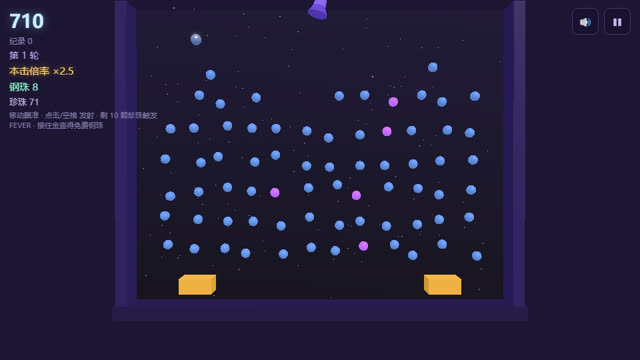
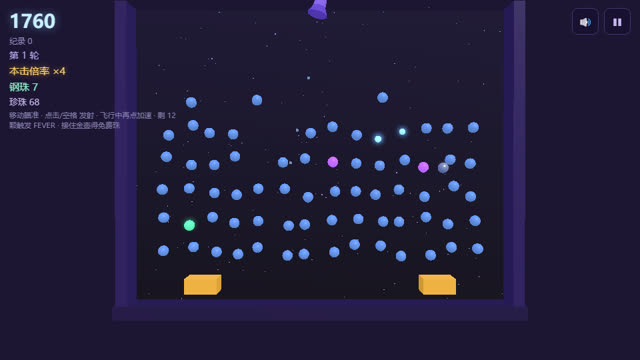
fix: 修复三条实机试玩反馈——①【关键】9款游戏真实主循环漏调 handleKeys()（键盘输入只进 pressed 集合从未被消费，仅调试钩子可用→玩家键盘全死，星窟狂奔最为致命）；统一在 tick 中每帧消费；新增 verify-input.mjs 用 Playwright 真键盘/鼠标逐款断言'输入必须产生可见状态变化'9/9 过②珠光瀑语手感：飞行中可继续瞄准(下一发预览)+点击加速×3+珍珠更密更大(14/行,半径.56)+FEVER 阈值10→12，解决'发射后无事可做/打不中'③光路迷阵引导：HUD 水晶进度计数、未点亮目标标注所需颜色字母、错色吸收红圈抖动提示、标题说明重

diff --git a/packages/app/public/games/pearl-pop-cascade/js/game.js b/packages/app/public/games/pearl-pop-cascade/js/game.js
@@ -9,9 +9,9 @@ import { makeUI } from './ui.js';
 import * as THREE from '../vendor/three.module.min.js';
 
 // ==================== physics constants ====================
-const GRAV = -26, REST = .8, WALL_REST = .75, BALL_R = .55, PEG_R = .5;
+const GRAV = -26, REST = .8, WALL_REST = .75, BALL_R = .55, PEG_R = .56;
 const MAXV = 42, SUBSTEPS = 3;
-const START_BALLS = 8, FEVER_AT = 10, FEVER_BALLS = 3;
+const START_BALLS = 8, FEVER_AT = 12, FEVER_BALLS = 3;
 const BUCKET_W = 3.4;
 
 // ==================== state ====================
@@ -19,7 +19,7 @@ let mode = 'title', paused = false, noAuto = false;
 let score = 0, bestScore = 0, bestRound = 0, round = 1;
 let balls = START_BALLS, freeBalls = 0, mult = 1, shotHits = 0, purpleHit = false;
 let feverArmed = false, feverActive = false, clearBonus = 0;
-let aimAngle = 0;                          // 0 = straight down; ±1.3 rad max
+let aimAngle = 0, fastBall = false;        // click during flight = fast-forward
 let ball = null;                           // {x,y,vx,vy}
 let playT = 0, time = 0, lastReportT = 0;
 const pegs = [], buckets = [], trailDots = [];
@@ -91,9 +91,9 @@ function layoutPegs(seedRng, count) {
   let placed = 0;
   for (let r = 0; r < rows && placed < count; r++) {
     const y = 5.5 + (r / Math.max(1, rows - 1)) * 19;
-    const n = Math.min(12, count - placed);
+    const n = Math.min(14, count - placed);
     for (let i = 0; i < n; i++) {
-      const x = -BW / 2 + 2.4 + (BW - 4.8) * ((i + .5) / n) + (seedRng() - .5) * 1.2;
+      const x = -BW / 2 + 2.4 + (BW - 4.8) * ((i + .5) / n) + (seedRng() - .5) * .9;
       const yy = y + (seedRng() - .5) * 1.4;
       if (yy > BH - 2.5 && Math.abs(x) < 3.4) continue;      // keep launcher column clear
       const kind = seedRng() < .03 ? 'purple' : seedRng() < .015 ? 'green' : 'blue';
@@ -327,7 +327,7 @@ function updateBuckets(dt) {
 
 // trajectory preview: simulate 46 steps
 function updatePreview() {
-  if (ball || mode !== 'play') { trailMeshes.forEach(m => m.visible = false); return; }
+  if (mode !== 'play') { trailMeshes.forEach(m => m.visible = false); return; }
   let x = 0, y = BH - 1.4, vx = Math.sin(aimAngle) * 30, vy = -Math.cos(aimAngle) * 30;
   let dot = 0;
   const h = 1 / 45;
@@ -356,6 +356,8 @@ function update(dt) {
   updateBuckets(dt);
   if (ball) {
     stepBall(dt);
+    if (fastBall && ball) { stepBall(dt); stepBall(dt); }   // click-to-fast-forward ×3
+    if (!ball) fastBall = false;
     if (ball) {                              // ball may have been consumed inside stepBall
       ballMesh.position.set(ball.x, ball.y, .55);
       ballMesh.visible = true;
@@ -387,6 +389,7 @@ function tick(now) {
   requestAnimationFrame(tick);
   let dt = (now - last) / 1000; last = now;
   if (document.hidden) return;
+  handleKeys();   // consume pressed keys in the REAL loop too (was debug-only — keyboard was dead for players)
   dt = Math.min(dt, 1 / 30);
   if (mode === 'play' && !paused) {
     acc += dt;
@@ -417,7 +420,10 @@ function setAimFromScreen(sx, sy) {
 addEventListener('pointermove', (e) => { if (mode === 'play' && !paused && e.pointerType !== 'touch') setAimFromScreen(e.clientX); });
 addEventListener('pointerdown', (e) => {
   audio.ensure();
-  if (mode === 'play' && !paused && e.pointerType === 'touch') setAimFromScreen(e.clientX);
+  if (mode === 'play' && !paused) {
+    setAimFromScreen(e.clientX);
+    if (ball) fastBall = true;              // click during flight = speed up
+  }
 });
 addEventListener('pointerup', (e) => {
   if (mode === 'play' && !paused) {
@@ -562,7 +568,7 @@ async function autotest() {
 
     // -- T16: bucket catch (deterministic: pegs pushed aside, frozen bucket at center)
     startGame();
-    G.killPegs(11);                            // 11 left: above FEVER_AT, no clear
+    G.killPegs(13);                            // 13 left: above FEVER_AT, no clear
     G.pushPegsAside();                         // clear the drop lane
     G.bucketAt(0, 0);
     buckets[0].dir = 0;

diff --git a/packages/games/pearl-pop-cascade/js/game.js b/packages/games/pearl-pop-cascade/js/game.js
@@ -9,9 +9,9 @@ import { makeUI } from './ui.js';
 import * as THREE from '../vendor/three.module.min.js';
 
 // ==================== physics constants ====================
-const GRAV = -26, REST = .8, WALL_REST = .75, BALL_R = .55, PEG_R = .5;
+const GRAV = -26, REST = .8, WALL_REST = .75, BALL_R = .55, PEG_R = .56;
 const MAXV = 42, SUBSTEPS = 3;
-const START_BALLS = 8, FEVER_AT = 10, FEVER_BALLS = 3;
+const START_BALLS = 8, FEVER_AT = 12, FEVER_BALLS = 3;
 const BUCKET_W = 3.4;
 
 // ==================== state ====================
@@ -19,7 +19,7 @@ let mode = 'title', paused = false, noAuto = false;
 let score = 0, bestScore = 0, bestRound = 0, round = 1;
 let balls = START_BALLS, freeBalls = 0, mult = 1, shotHits = 0, purpleHit = false;
 let feverArmed = false, feverActive = false, clearBonus = 0;
-let aimAngle = 0;                          // 0 = straight down; ±1.3 rad max
+let aimAngle = 0, fastBall = false;        // click during flight = fast-forward
 let ball = null;                           // {x,y,vx,vy}
 let playT = 0, time = 0, lastReportT = 0;
 const pegs = [], buckets = [], trailDots = [];
@@ -91,9 +91,9 @@ function layoutPegs(seedRng, count) {
   let placed = 0;
   for (let r = 0; r < rows && placed < count; r++) {
     const y = 5.5 + (r / Math.max(1, rows - 1)) * 19;
-    const n = Math.min(12, count - placed);
+    const n = Math.min(14, count - placed);
     for (let i = 0; i < n; i++) {
-      const x = -BW / 2 + 2.4 + (BW - 4.8) * ((i + .5) / n) + (seedRng() - .5) * 1.2;
+      const x = -BW / 2 + 2.4 + (BW - 4.8) * ((i + .5) / n) + (seedRng() - .5) * .9;
       const yy = y + (seedRng() - .5) * 1.4;
       if (yy > BH - 2.5 && Math.abs(x) < 3.4) continue;      // keep launcher column clear
       const kind = seedRng() < .03 ? 'purple' : seedRng() < .015 ? 'green' : 'blue';
@@ -327,7 +327,7 @@ function updateBuckets(dt) {
 
 // trajectory preview: simulate 46 steps
 function updatePreview() {
-  if (ball || mode !== 'play') { trailMeshes.forEach(m => m.visible = false); return; }
+  if (mode !== 'play') { trailMeshes.forEach(m => m.visible = false); return; }
   let x = 0, y = BH - 1.4, vx = Math.sin(aimAngle) * 30, vy = -Math.cos(aimAngle) * 30;
   let dot = 0;
   const h = 1 / 45;
@@ -356,6 +356,8 @@ function update(dt) {
   updateBuckets(dt);
   if (ball) {
     stepBall(dt);
+    if (fastBall && ball) { stepBall(dt); stepBall(dt); }   // click-to-fast-forward ×3
+    if (!ball) fastBall = false;
     if (ball) {                              // ball may have been consumed inside stepBall
       ballMesh.position.set(ball.x, ball.y, .55);
       ballMesh.visible = true;
@@ -387,6 +389,7 @@ function tick(now) {
   requestAnimationFrame(tick);
   let dt = (now - last) / 1000; last = now;
   if (document.hidden) return;
+  handleKeys();   // consume pressed keys in the REAL loop too (was debug-only — keyboard was dead for players)
   dt = Math.min(dt, 1 / 30);
   if (mode === 'play' && !paused) {
     acc += dt;
@@ -417,7 +420,10 @@ function setAimFromScreen(sx, sy) {
 addEventListener('pointermove', (e) => { if (mode === 'play' && !paused && e.pointerType !== 'touch') setAimFromScreen(e.clientX); });
 addEventListener('pointerdown', (e) => {
   audio.ensure();
-  if (mode === 'play' && !paused && e.pointerType === 'touch') setAimFromScreen(e.clientX);
+  if (mode === 'play' && !paused) {
+    setAimFromScreen(e.clientX);
+    if (ball) fastBall = true;              // click during flight = speed up
+  }
 });
 addEventListener('pointerup', (e) => {
   if (mode === 'play' && !paused) {
@@ -562,7 +568,7 @@ async function autotest() {
 
     // -- T16: bucket catch (deterministic: pegs pushed aside, frozen bucket at center)
     startGame();
-    G.killPegs(11);                            // 11 left: above FEVER_AT, no clear
+    G.killPegs(13);                            // 13 left: above FEVER_AT, no clear
     G.pushPegsAside();                         // clear the drop lane
     G.bucketAt(0, 0);
     buckets[0].dir = 0;

diff --git a/packages/games/orchard-fusion/js/game.js b/packages/games/orchard-fusion/js/game.js
@@ -152,7 +152,8 @@ function doSwap() {
 function spawnBody(tier, x, y, vx = 0, vy = 0) {
   const f = FRUITS[tier];
   const b = {
-    tier, x: Math.max(JAR.left + f.r, Math.min(JAR.right - f.r, x)), y,
+    tier, x: Math.max(JAR.left + f.r, Math.min(JAR.right - f.r, x)),
+    y: Math.min(y, JAR.floor - f.r),      // merged fruit is bigger than parents: keep above floor
     vx, vy, r: f.r, rot: 0, hit: false, dead: false, born: 0,
   };
   bodies.push(b);
@@ -362,6 +363,7 @@ function tick(now) {
   requestAnimationFrame(tick);
   let dt = (now - last) / 1000; last = now;
   if (document.hidden) return;
+  handleKeys();   // consume pressed keys in the REAL loop too (was debug-only — keyboard was dead for players)
   dt = Math.min(dt, 1 / 30);
   if (mode === 'play' && !paused) {
     acc += dt;
@@ -609,7 +611,7 @@ async function autotest() {
   assert(32, !nan2 && G.err.length === errBefore, '整局快进 240 投无 NaN 无新报错');
   if (S().mode === 'play') for (let i = 0; i < 30; i++) { G.spawnTier(7 + (i % 3), 110 + Math.random() * 320, 150 + Math.random() * 300); G.upd(5); }
   G.setNoAuto(false);
-  for (let i = 0; i < 400 && S().mode === 'play'; i++) G.upd(1);
+  for (let i = 0; i < 900 && S().mode === 'play'; i++) G.upd(1);
   assert(33, S().mode === 'over', '堆满后自然判负到结算');
 
   // -- T34: back to title screen

diff --git a/packages/app/public/games/prism-paths/index.html b/packages/app/public/games/prism-paths/index.html
@@ -93,10 +93,10 @@
   <h1>光路迷阵</h1>
   <h2>PRISM PATHS · 激光折射解谜</h2>
   <div class="howto">
-    旋转镜面与棱镜，把激光引导到同色水晶上<br>
+    旋转镜面与棱镜，把激光引导到<b>同色</b>水晶上——须点亮全部水晶才算过关<br>
+    水晶上标着它要的颜色；错色光会被吸收（红圈提示）<br>
     棱镜分光一路为二 · 滤色镜只放行同色 · 冰镜折射一次即消融<br>
-    步数不超过 par 拿三星，集星解锁后续章节<br>
-    30 关三章，全部点亮征服光路！
+    步数不超过 par 拿三星，集星解锁后续章节，30 关三章征服光路！
   </div>
   <div id="titlebest"></div>
   <div class="btns"><button id="startbtn">开始解谜</button><button id="contbtn" class="ghost">继续上次</button></div>

diff --git a/packages/games/prism-paths/index.html b/packages/games/prism-paths/index.html
@@ -93,10 +93,10 @@
   <h1>光路迷阵</h1>
   <h2>PRISM PATHS · 激光折射解谜</h2>
   <div class="howto">
-    旋转镜面与棱镜，把激光引导到同色水晶上<br>
+    旋转镜面与棱镜，把激光引导到<b>同色</b>水晶上——须点亮全部水晶才算过关<br>
+    水晶上标着它要的颜色；错色光会被吸收（红圈提示）<br>
     棱镜分光一路为二 · 滤色镜只放行同色 · 冰镜折射一次即消融<br>
-    步数不超过 par 拿三星，集星解锁后续章节<br>
-    30 关三章，全部点亮征服光路！
+    步数不超过 par 拿三星，集星解锁后续章节，30 关三章征服光路！
   </div>
   <div id="titlebest"></div>
   <div class="btns"><button id="startbtn">开始解谜</button><button id="contbtn" class="ghost">继续上次</button></div>

diff --git a/packages/app/public/games/prism-paths/js/ui.js b/packages/app/public/games/prism-paths/js/ui.js
@@ -39,7 +39,7 @@ export function makeUI({ onStart, onContinue, onSelect, onBack, onPick, onUndo, 
     el.titlebest.textContent = total > 0 ? `已收集 ${total} / 90 星` : '还没有纪录，来点亮第一颗水晶吧';
     el.selbest.textContent = total > 0 ? `当前总星数 ${total} / 90` : '从第一章开始你的光路之旅';
   }
-  function setMoves(m, par) { el.moves.textContent = `步数 ${m} / par ${par}`; }
+  function setMoves(m, par, lit = 0, total = 0) { el.moves.textContent = `步数 ${m} / par ${par} · 水晶 ${lit}/${total}`; }
   function renderSelect(LEVELS, stars, gates, current) {
     el.chaplist.innerHTML = '';
     const total = stars.reduce((a, b) => a + b, 0);

diff --git a/packages/games/prism-paths/js/ui.js b/packages/games/prism-paths/js/ui.js
@@ -39,7 +39,7 @@ export function makeUI({ onStart, onContinue, onSelect, onBack, onPick, onUndo, 
     el.titlebest.textContent = total > 0 ? `已收集 ${total} / 90 星` : '还没有纪录，来点亮第一颗水晶吧';
     el.selbest.textContent = total > 0 ? `当前总星数 ${total} / 90` : '从第一章开始你的光路之旅';
   }
-  function setMoves(m, par) { el.moves.textContent = `步数 ${m} / par ${par}`; }
+  function setMoves(m, par, lit = 0, total = 0) { el.moves.textContent = `步数 ${m} / par ${par} · 水晶 ${lit}/${total}`; }
   function renderSelect(LEVELS, stars, gates, current) {
     el.chaplist.innerHTML = '';
     const total = stars.reduce((a, b) => a + b, 0);

diff --git a/packages/app/public/games/pearl-pop-cascade/index.html b/packages/app/public/games/pearl-pop-cascade/index.html
@@ -61,7 +61,7 @@
   <div id="mult">本击倍率 ×1</div>
   <div id="ballcount">钢珠 8</div>
   <div id="pegcount">珍珠 75</div>
-  <div id="hint">移动瞄准 · 点击/空格 发射 · 剩 10 颗珍珠触发 FEVER · 接住金壶得免费钢珠</div>
+  <div id="hint">移动瞄准 · 点击/空格 发射 · 飞行中再点加速 · 剩 12 颗触发 FEVER · 接住金壶得免费珠</div>
 </div>
 
 <div id="tr">

diff --git a/packages/games/pearl-pop-cascade/index.html b/packages/games/pearl-pop-cascade/index.html
@@ -61,7 +61,7 @@
   <div id="mult">本击倍率 ×1</div>
   <div id="ballcount">钢珠 8</div>
   <div id="pegcount">珍珠 75</div>
-  <div id="hint">移动瞄准 · 点击/空格 发射 · 剩 10 颗珍珠触发 FEVER · 接住金壶得免费钢珠</div>
+  <div id="hint">移动瞄准 · 点击/空格 发射 · 飞行中再点加速 · 剩 12 颗触发 FEVER · 接住金壶得免费珠</div>
 </div>
 
 <div id="tr">

diff --git a/packages/app/public/games/prism-paths/js/game.js b/packages/app/public/games/prism-paths/js/game.js
@@ -422,6 +422,7 @@ function tick(now) {
   requestAnimationFrame(tick);
   let dt = (now - last) / 1000; last = now;
   if (document.hidden) return;
+  handleKeys();   // consume pressed keys in the REAL loop too (was debug-only — keyboard was dead for players)
   time += Math.min(dt, 1 / 30);
   if (mode === 'play' && !paused) { /* trace-driven; nothing per-frame */ }
   render();

diff --git a/packages/games/prism-paths/js/game.js b/packages/games/prism-paths/js/game.js
@@ -422,6 +422,7 @@ function tick(now) {
   requestAnimationFrame(tick);
   let dt = (now - last) / 1000; last = now;
   if (document.hidden) return;
+  handleKeys();   // consume pressed keys in the REAL loop too (was debug-only — keyboard was dead for players)
   time += Math.min(dt, 1 / 30);
   if (mode === 'play' && !paused) { /* trace-driven; nothing per-frame */ }
   render();

diff --git a/packages/app/public/games/deep-catch-saga/js/game.js b/packages/app/public/games/deep-catch-saga/js/game.js
@@ -740,6 +740,7 @@ function tick(now) {
   requestAnimationFrame(tick);
   let dt = (now - last) / 1000; last = now;
   if (document.hidden) return;
+  handleKeys();   // consume pressed keys in the REAL loop too (was debug-only — keyboard was dead for players)
   dt = Math.min(dt, 1 / 30);
   if (mode === 'play' && !paused && !panel) {
     acc += dt;
